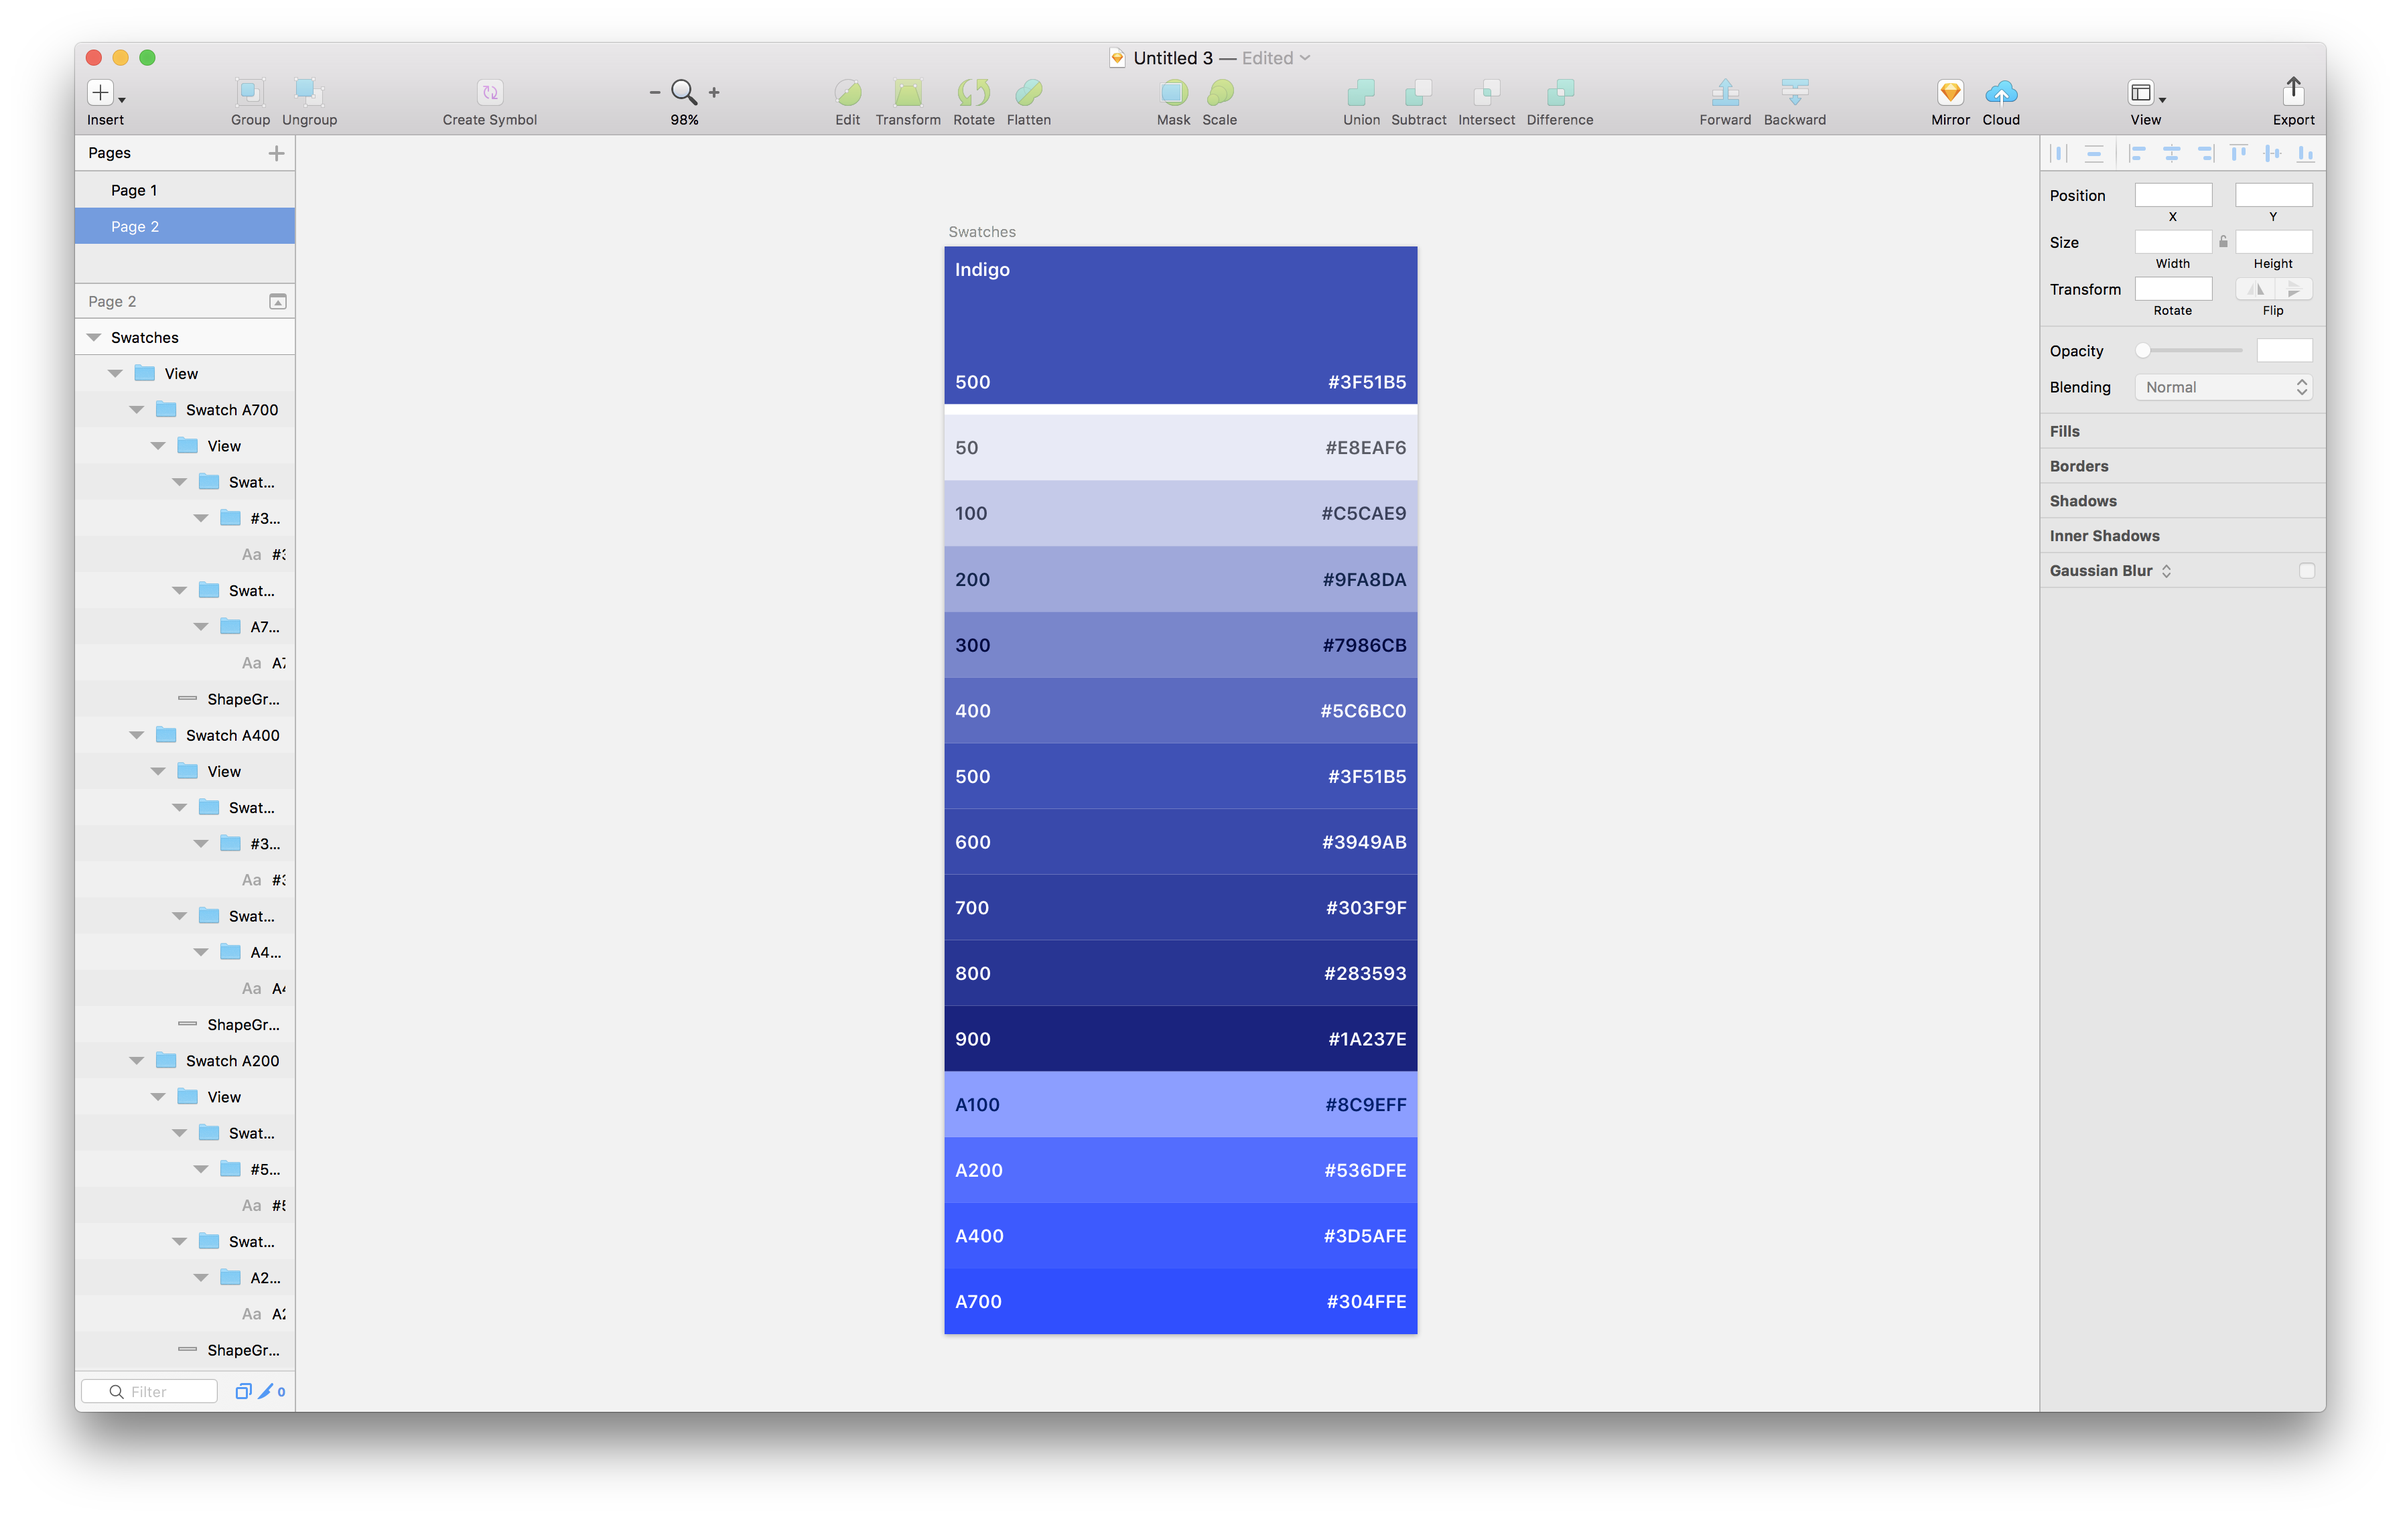
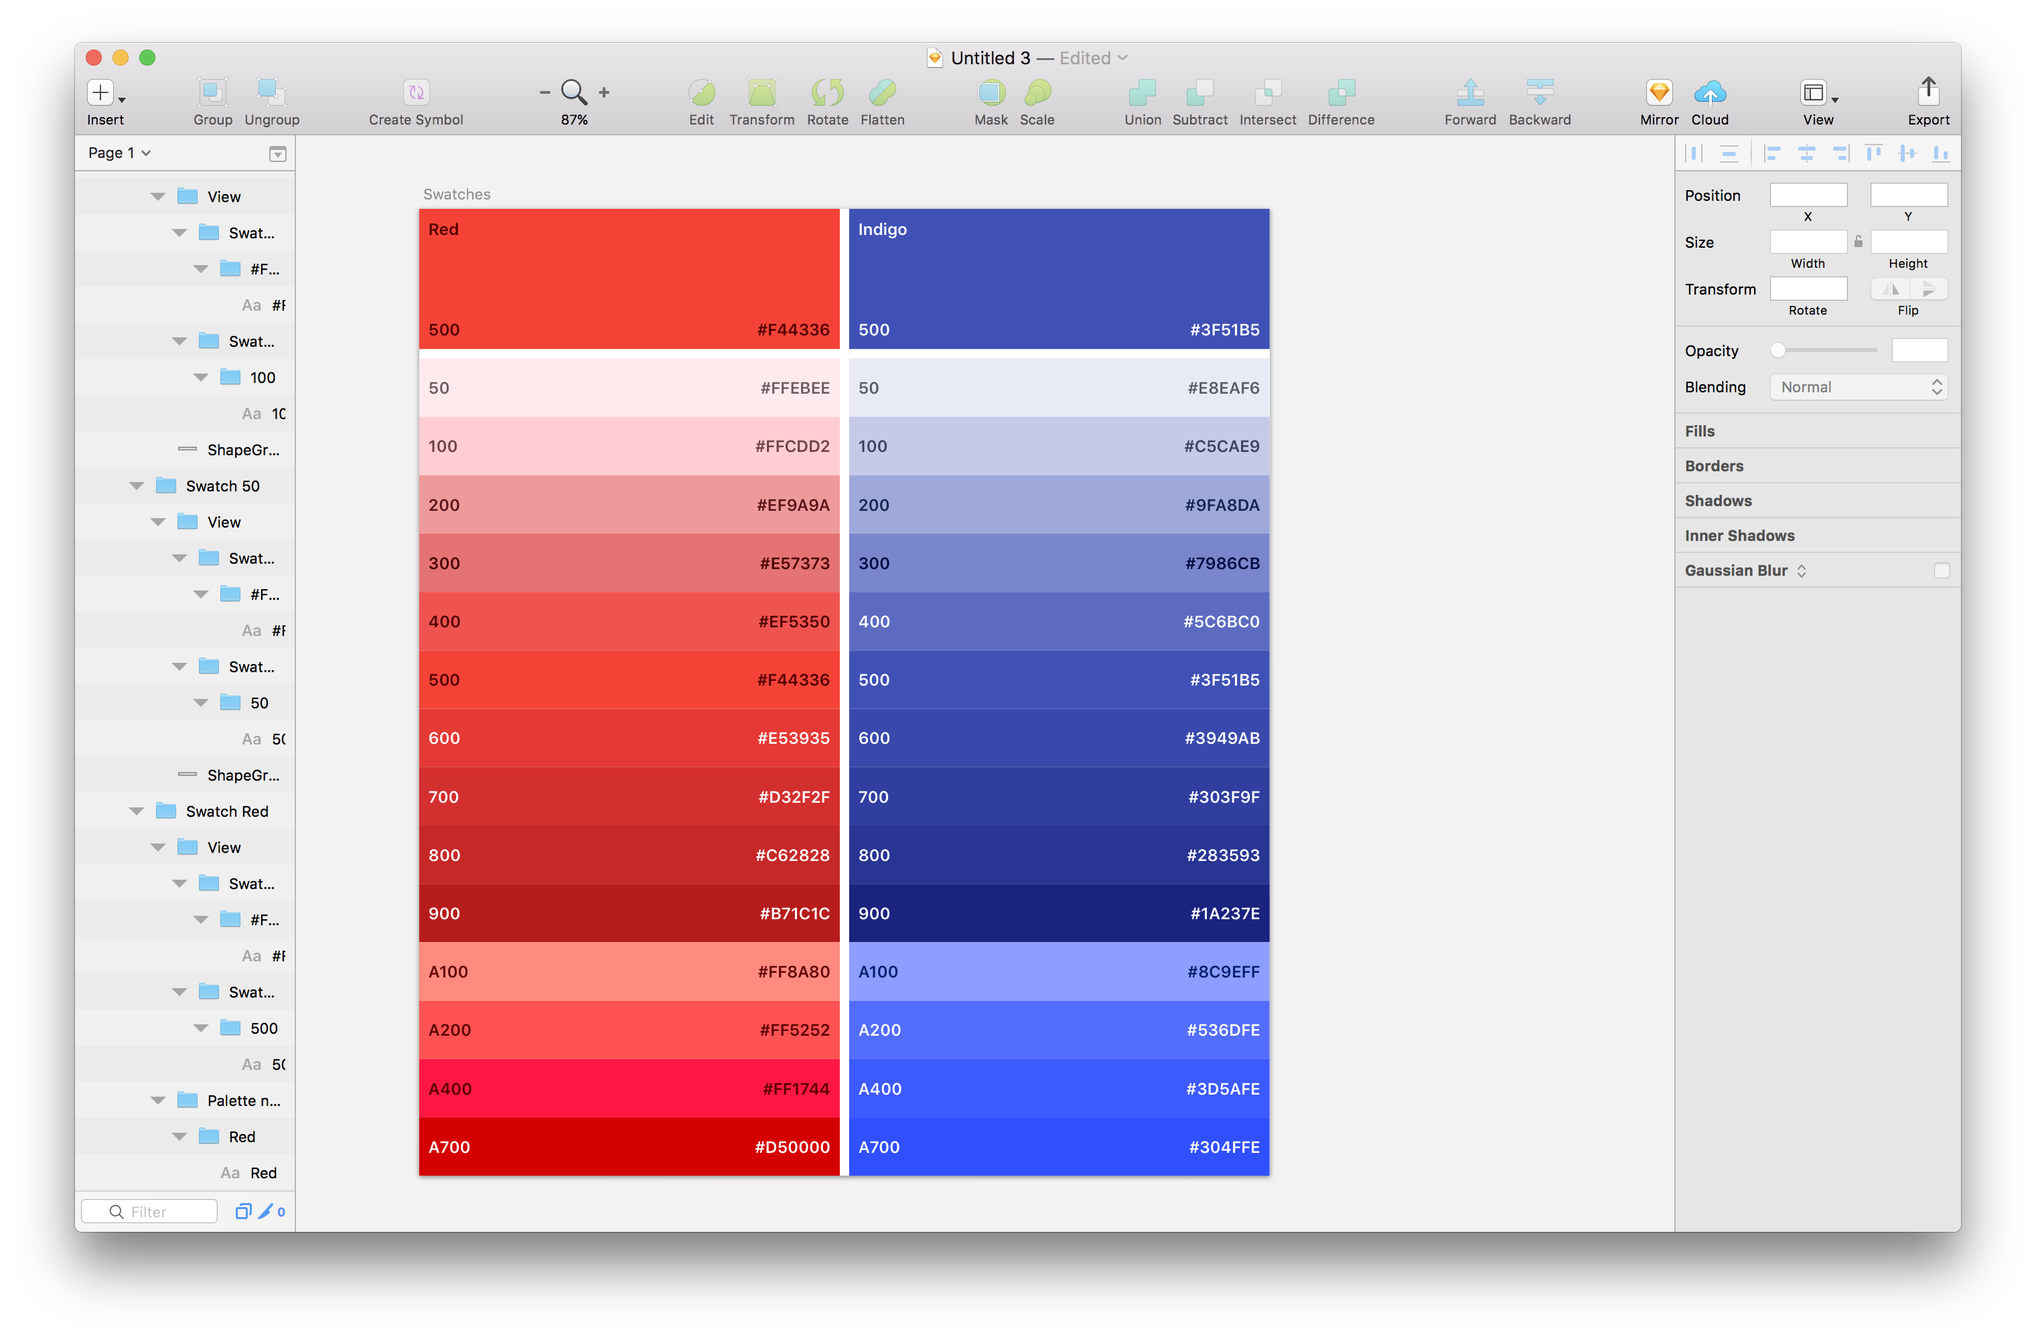
Improve readme

Changed region(s): [[0.0312, 0.031, 0.9688, 0.961]]

diff --git a/README.md b/README.md
@@ -1,6 +1,6 @@
 # Sketch Palette Generator
 
-This plugin allows you to output a colour palette defined in JSON to Sketch.
+This plugin allows you to output a colour palette defined in JSON to Sketch. This plugin is heavily inspired by the [Material colour palette](https://material.io/guidelines/style/color.html#color-color-palette).
 
 ![Screenshot](screenshot.png)
 
@@ -19,10 +19,28 @@ Defining a colour palette in JSON makes it easy to share colours between Sketch 
 
 1. Download and install the Sketch plugin
 
-2. Define your colour palette in a JSON file:
+2. Define your colour palette in a JSON file.
+
+The example below contains two swatches with each 14 accents. Each swatch can contain however many accents as you wish, **the only requirement is that every swatch should contain an accent with the key `500`, as this one is used as the base colour.**
 
 ```json
 {
+  "Red": {
+    "50": "#FFEBEE",
+    "100": "#FFCDD2",
+    "200": "#EF9A9A",
+    "300": "#E57373",
+    "400": "#EF5350",
+    "500": "#F44336",
+    "600": "#E53935",
+    "700": "#D32F2F",
+    "800": "#C62828",
+    "900": "#B71C1C",
+    "A100": "#FF8A80",
+    "A200": "#FF5252",
+    "A400": "#FF1744",
+    "A700": "#D50000"
+  },
   "Indigo": {
     "50": "#E8EAF6",
     "100": "#C5CAE9",
